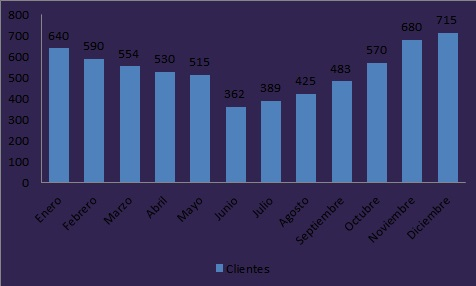
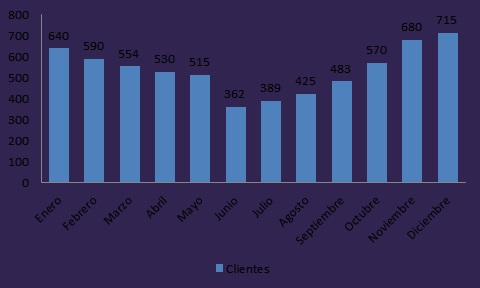
sigo
Se agrego un calendario
se agregaron clientes

diff --git a/gerente/otro 2.html b/gerente/otro 2.html
@@ -6,7 +6,6 @@
 -->
 <html>
 	<head>
-		
 		<title>PG: Eventos</title>
 		<meta charset="utf-8" />
 		<meta name="viewport" content="width=device-width, initial-scale=1" />
@@ -26,9 +25,9 @@
 						<ul>
 							<li><a href="home.html">Inicio</a></li>
 							<li><a href="clientes.html">Clientes</a></li>
-							<li><a href="empleados.html">Empleados</a></li>												
+							<li><a href="empleados.html">Empleados</a></li>
 							<li><a href="diciplinas.html">Diciplinas</a></li>
-							<li><a href="#eventos">Eventos</a></li>							
+							<li><a href="#eventos">Eventos</a></li>
 							<li><a href="../index.html">Cerrar Sesion</a></li>
 						</ul>
 					</nav>
@@ -37,28 +36,22 @@
 
 		<!-- Wrapper -->
 			<div id="wrapper">
-
-				<!-- consultarseguimineto -->
-					<section id="eventos" class="wrapper">
-						<div class="inner">
-							<h1 class="major">Eventos</h1>
-							<p></p>
-							<section>
-								<pre>
-					<div class="table-wrapper align-center">
+			<section>
+				<pre>
+					<div class="table-wrapper">
 						<code>
 						<table class="alt">
 							<thead>
 
 								<tr>
 
-									<td> Lun </td>
-									<td> Mar </td>
-									<td> Mie </td>
-									<td> Jue </td>
-									<td> Vie </td>
-									<td> Sab </td>
-									<td> Dom </td>
+									<td><center>Lun</center></td>
+									<td><center>Mar</center></td>
+									<td><center>Mie</center></td>
+									<td><center>Jue</center></td>
+									<td><center>Vie</center></td>
+									<td><center>Sab</center></td>
+									<td><center>Dom</center></td>
 
 								</tr>
 							</thead>
@@ -67,59 +60,57 @@
 									<td class="prev-month">29</td>
 									<td class="prev-month">30</td>
 									<td class="prev-month">31</td>
-									<td> 1 </td>
-									<td> 2 </td>
-									<td> 3 </td>
-									<td> 4 </td>
+									<td><center>1</center></td>
+									<td><center>2</center></td>
+									<td><center>3</center></td>
+									<td><center>4</center></td>
 								</tr>
 								<tr>
-									<td> 5 </td>
-									<td> 6 </td>
-									<td> 7 </td>
-									<td> 8 </td>
-									<td class= "current-day"> 9 </td>
-									<td> 10 </td>
-									<td> 11 </td>
+									<td><center>5</center></td>
+									<td><center>6</center></td>
+									<td><center>7</center></td>
+									<td><center>8</center></td>
+									<td class= "current-day"><center>9</center></td>
+									<td><center>10</center></td>
+									<td><center>11</center></td>
 								</tr>
 								<tr>
-									<td> 12 </td>
-									<td> 13 </td>
-									<td> 14 </td>
-									<td> 15 </td>
-									<td> 16 </td>									
-									<td class="color-celda align-center"><div class="tooltip">17<span class="tooltiptext">Juntada de Zumba<br/>entre todos los cursos</span></div></td>
-									<td> 18 </td>
+									<td><center>12</center></td>
+									<td><center>13</center></td>
+									<td><center>14</center></td>
+									<td><center>15</center></td>
+									<td><center>16</center></td>									
+									<td class="color-celda"><a href="home.html"><center>17</center></a></td>
+									<td><center>18</center></td>
 								</tr>
 								<tr>
-									<td> 19 </td>
-									<td> 20 </td>
-									<td> 21 </td>
-									<td> 22 </td>
-									<td> 23 </td>
-									<td> 24 </td>
-									<td> 25 </td>
+									<td><center>19</center></td>
+									<td><center>20</center></td>
+									<td><center>21</center></td>
+									<td><center>22</center></td>
+									<td><center>23</center></td>
+									<td><center>24</center></td>
+									<td><center>25</center></td>
 								</tr>
 								<tr>
-									<td> 26 </td>
-									<td> 27 </td>
-									<td> 28 </td>
-									<td> 29 </td>
-									<td class="color-celda align-center"><div class="tooltip">30<span class="tooltiptext">Juntada de Kick Boxing<br/>entre todos los cursos</span></div></td>
-									<td> 31 </td>
+									<td><center>26</center></td>
+									<td><center>27</center></td>
+									<td><center>28</center></td>
+									<td><center>29</center></td>
+									<td class="color-celda"><a href="home.html"><center>30</center></a></td>
+									<td><center>31</center></td>
 									<td ALIGN=RIGHT>1</td>
 								</tr>
 							</tbody>
 						</table>
 						</code>
 					</div> <!-- end calendar-container -->
-				</pre>
-							</section>
-						</div>
-					</section>
-					
-				
+				</pre> <!-- end container -->
+	</section>
+</div>
+
 				<!-- Footer -->
-			<footer id="footer" class="wrapper alt">
+			<footer id="footer" class="wrapper alt pie">
 				<div class="inner">
 					<ul class="menu">
 						<li>&copy; Untitled. All rights reserved.</li><li>Design: <a href="http://html5up.net">G6 Mates</a></li>
@@ -128,14 +119,14 @@
 			</footer>
 			</div>
 <section>
-									
-									
-									
+
+
+
 								</section>
-		
+
 
 		<!-- Scripts -->
-			
+
 			<script src="assets/js/jquery.min.js"></script>
 			<script src="assets/js/jquery.scrollex.min.js"></script>
 			<script src="assets/js/jquery.scrolly.min.js"></script>

diff --git a/gerente/clientes.html b/gerente/clientes.html
@@ -44,9 +44,66 @@
 							<p></p>
 							<section>
 								<form method="get" action="seguimiento.html">
-									<div class="field half first">																	
-									</div>
 									
+									<!-- Table -->
+								<section>
+									<h2></h2>
+									<h3></h3>
+									<div class="table-wrapper">
+										<table>
+											<thead>
+												<tr>
+													<th>Apellido y Nombre</th>
+													<th>DNI</th>
+													<th>Telefono</th>
+													<th>Edad</th>		
+													<th>Disciplina</th>
+												</tr>
+											</thead>
+											<tbody>
+												
+													<td>Zaracho Santino</td>
+													<td>45.355.123</td>
+													<td>3624-453268</td>
+													<td>23</td>
+													<td>Aerobox</td>
+												</tr>
+												<tr>
+													<td>Toledo Lucas</td>
+													<td>11.545.153</td>
+													<td>3624-963256</td>
+													<td>23</td>
+													<td>Funcional</td>
+												</tr>
+												<tr>
+													<td>Feresin Bruno</td>
+													<td>27.362.524</td>
+													<td>3482-560093</td>
+													<td>25</td>
+													<td>Kick Boxing</td>
+												</tr>
+												<tr>
+													<td>Urbanija Max</td>
+													<td>9.564.859</td>
+													<td>3625-698354</td>
+													<td>29</td>
+													<td>Zumba</td>
+												</tr>												
+											</tbody>
+											<tfoot>
+												<tr>
+													<td colspan="2"></td>
+													<td></td>
+												</tr>
+											</tfoot>
+										</table>
+									</div>
+							        <div>
+									<br />
+									
+									</div>
+								</form>
+							</section>
 							        <div>
 									<br />									
 									</div>
@@ -57,7 +114,7 @@
 					
 				
 				<!-- Footer -->
-			<footer id="footer" class="wrapper alt pie">
+			<footer id="footer" class="wrapper alt ">
 				<div class="inner">
 					<ul class="menu">
 						<li>&copy; Untitled. All rights reserved.</li><li>Design: <a href="http://html5up.net">G6 Mates</a></li>

diff --git a/gerente/home.html b/gerente/home.html
@@ -24,7 +24,7 @@
 					<p></p>
 						<ul>
 							<li><a href="#inicio">Inicio</a></li>
-							<li><a href="../secretaria/clientes.html">Clientes</a></li>
+							<li><a href="clientes.html">Clientes</a></li>
 							<li><a href="empleados.html">Empleados</a></li>							
 							<li><a href="diciplinas.html">Diciplinas</a></li>
 							<li><a href="eventos.html">Eventos</a></li>							
@@ -50,7 +50,7 @@
 									
 									<img src="images/disciplinas por porcentaje.jpg" alt="porcentaje" height="40%" width="60%">
 									<p> Cantidad de clientes mensuales</p>
-									<img src="images/clientes mensuales.jpg" alt="Logo de Energym" height="35%" width="65%">
+									<img src="images/clientes mensuales.jpg" alt="Logo de Energym" height="40%" width="60%">
 									<p> Cantidad de ingresos mensuales</p>
 									<img src="images/ganancias.jpg" alt="Logo de Energym" height="40%" width="60%">
 							        <div>
@@ -64,7 +64,7 @@
 			</div>
 
 		<!-- Footer -->
-			<footer id="footer" class="wrapper alt pie">
+			<footer id="footer" class="wrapper alt">
 				<div class="inner">
 					<ul class="menu">
 						<li>&copy; Untitled. All rights reserved.</li><li>Design: <a href="http://html5up.net">G6 Mates</a></li>

diff --git a/assets/css/main.css b/assets/css/main.css
@@ -3917,3 +3917,56 @@
 			}
 
 		}
+.current-day {
+	color: #e66b6b;
+}
+
+.prev-month,
+.next-month {
+	color: #cacaca;
+	text-align: left;
+}
+
+table .color-celda {
+	background-color:grey;
+	color:black;
+}
+
+/* Tooltip */
+
+/* Tooltip container */
+.tooltip {
+    position: relative;
+    display: inline-block;
+    
+}
+
+/* Tooltip text */
+.tooltip .tooltiptext {
+    visibility: hidden;
+    width: 240px;
+    background-color: #312450;
+    color: #fff;
+    text-align: center;
+    padding: 1px 0;
+    border-radius: 6px;
+
+    /* Position the tooltip text - see examples below! */
+    position: absolute;
+    z-index: 1;
+}
+
+/* Show the tooltip text when you mouse over the tooltip container */
+.tooltip:hover .tooltiptext {
+    visibility: visible;
+}
+
+.pie {
+	position: absolute;
+  right: 0;
+  bottom: 0;
+  left: 0;
+  padding: 1rem;
+  background-color: #efefef;
+  text-align: center;
+}

diff --git a/gerente/empleados.html b/gerente/empleados.html
@@ -46,6 +46,7 @@
 								
 							</section>
 						</div>
+						
 					</section>
 					<!-- Table -->
 								<section>
@@ -109,7 +110,7 @@
 			</div>
 
 		<!-- Footer -->
-			<footer id="footer" class="wrapper alt pie">
+			<footer id="footer" class="wrapper alt">
 				<div class="inner">
 					<ul class="menu">
 						<li>&copy; Untitled. All rights reserved.</li><li>Design: <a href="http://html5up.net">G6 Mates</a></li>

diff --git a/gerente/diciplinas.html b/gerente/diciplinas.html
@@ -127,7 +127,7 @@
 						</div>
 					</section>
 					<!-- Footer -->
-			<footer id="footer" class="wrapper alt pie">
+			<footer id="footer" class="wrapper alt">
 				<div class="inner">
 					<ul class="menu">
 						<li>&copy; Untitled. All rights reserved.</li><li>Design: <a href="http://html5up.net">G6 Mates</a></li>

diff --git a/gerente/assets/css/main.css b/gerente/assets/css/main.css
@@ -2044,6 +2044,11 @@
 					opacity: 0.1;
 				}
 
+				
+
+
+				
+				
 /* Features */
 
 	.features {
